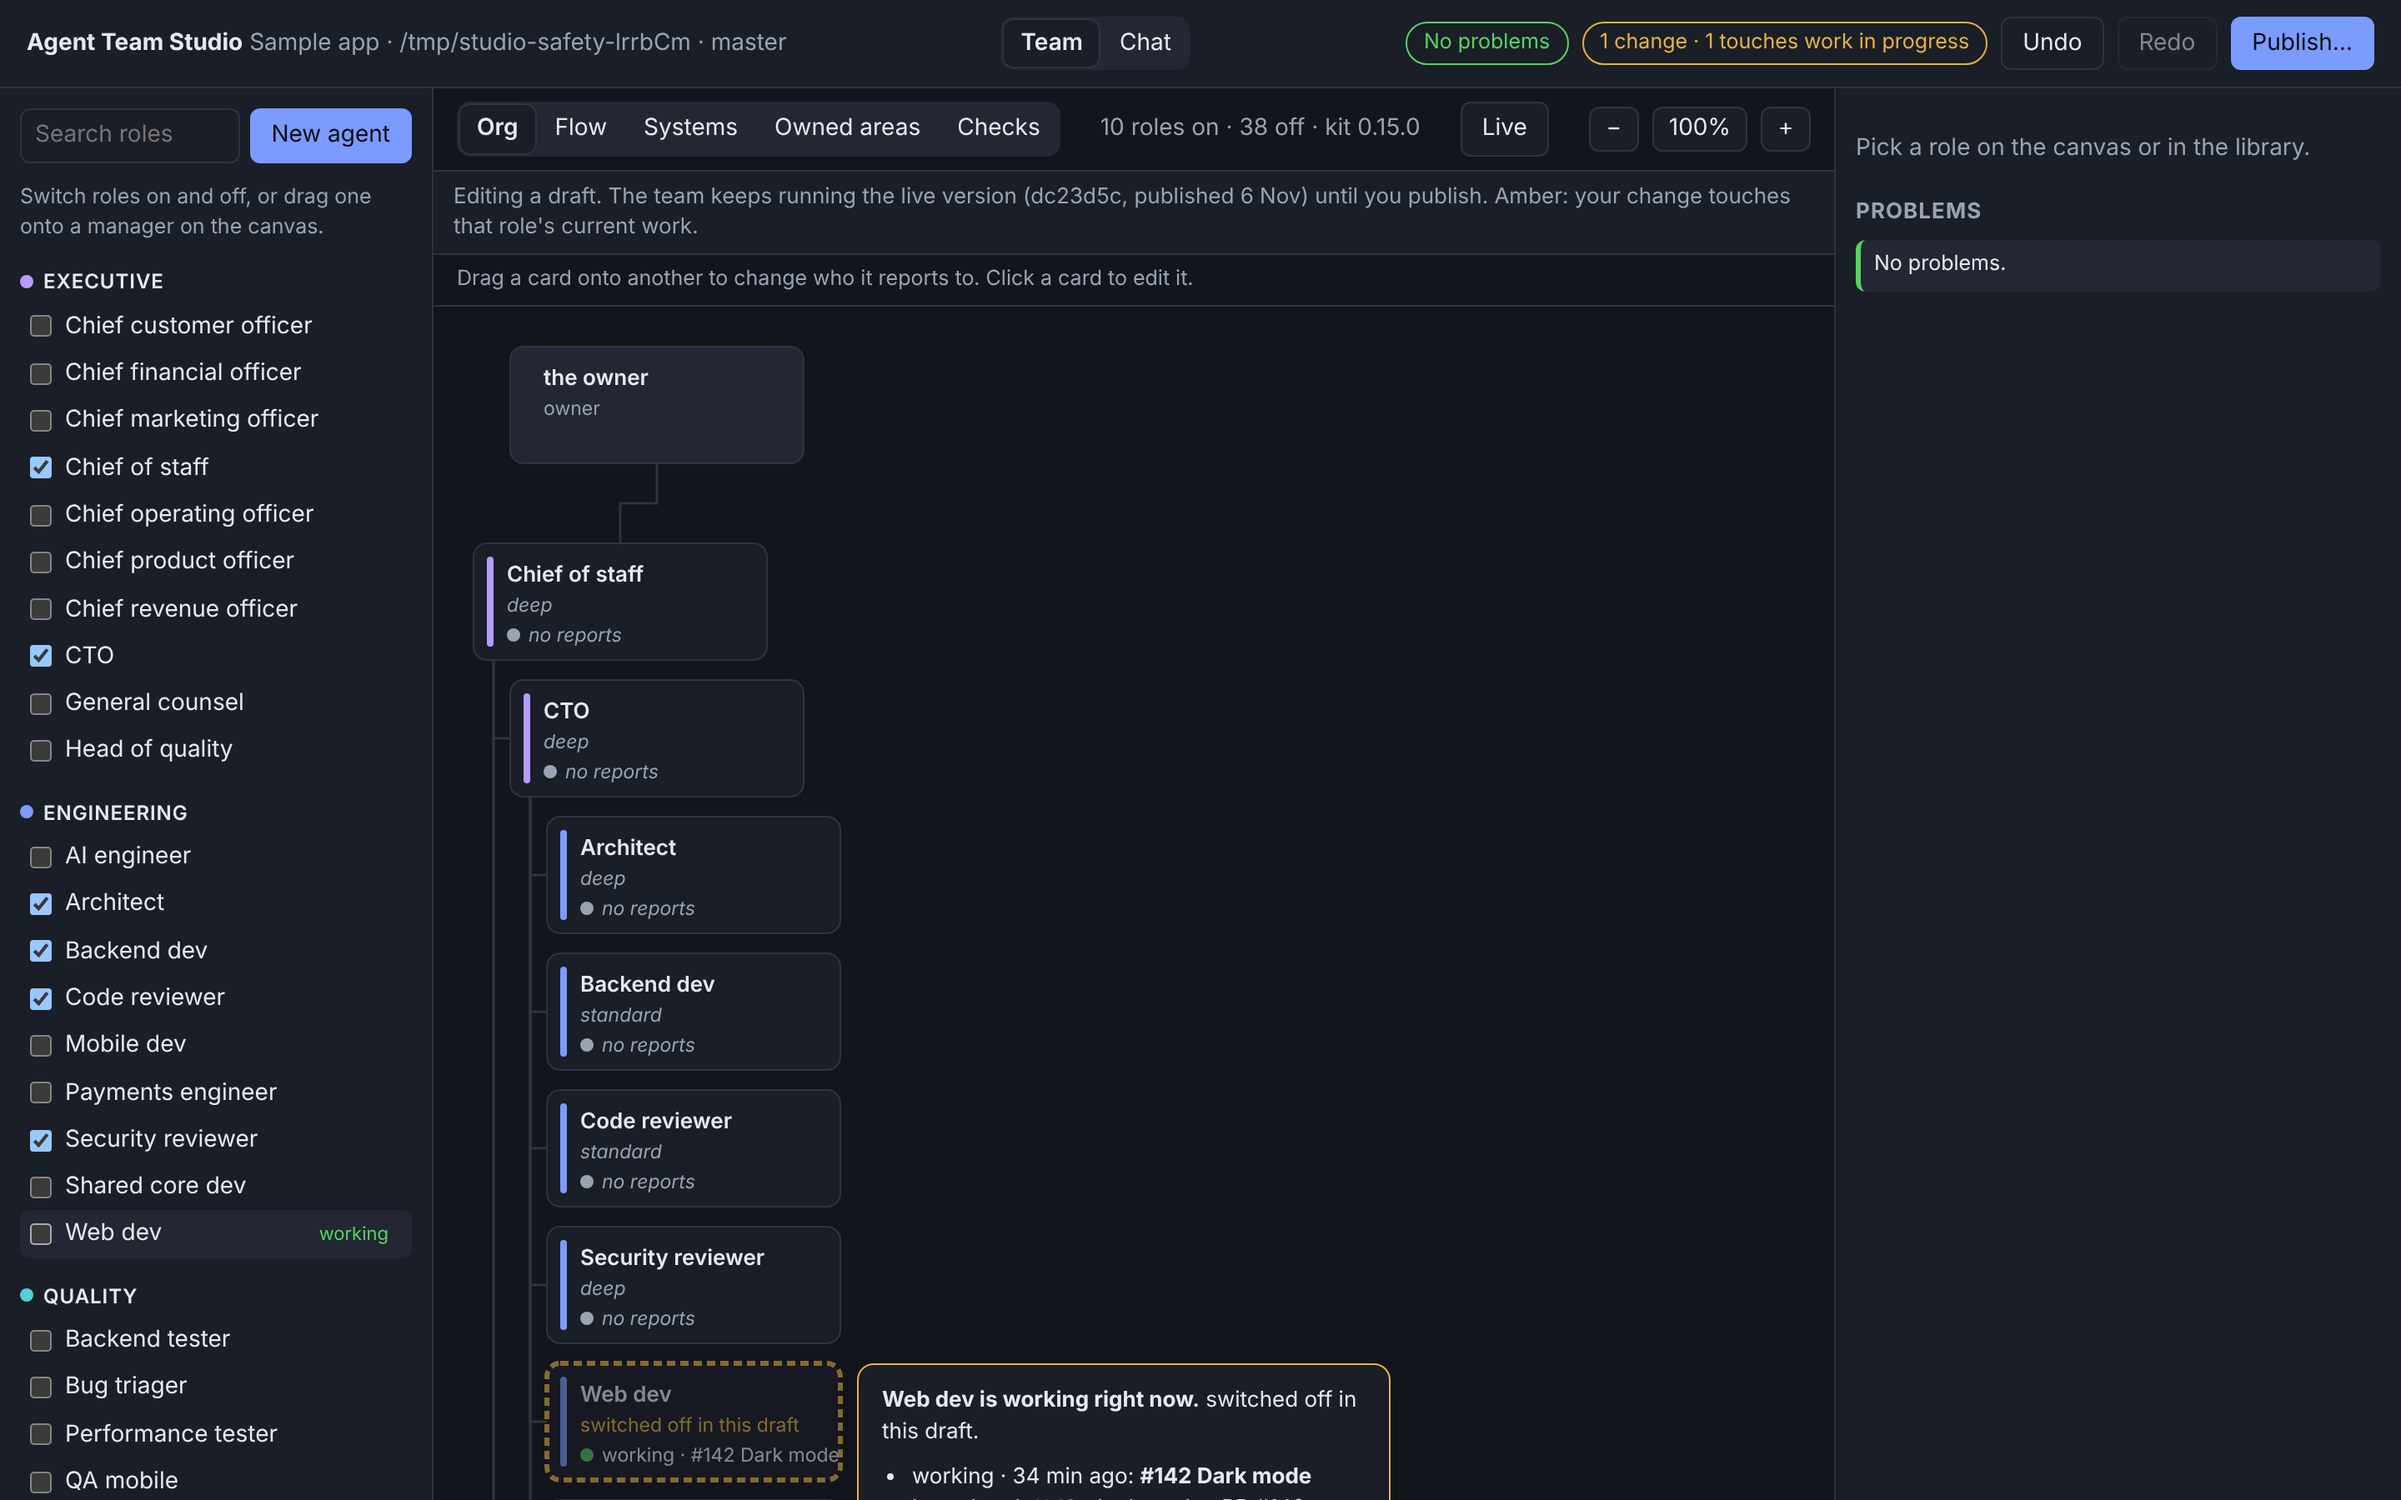
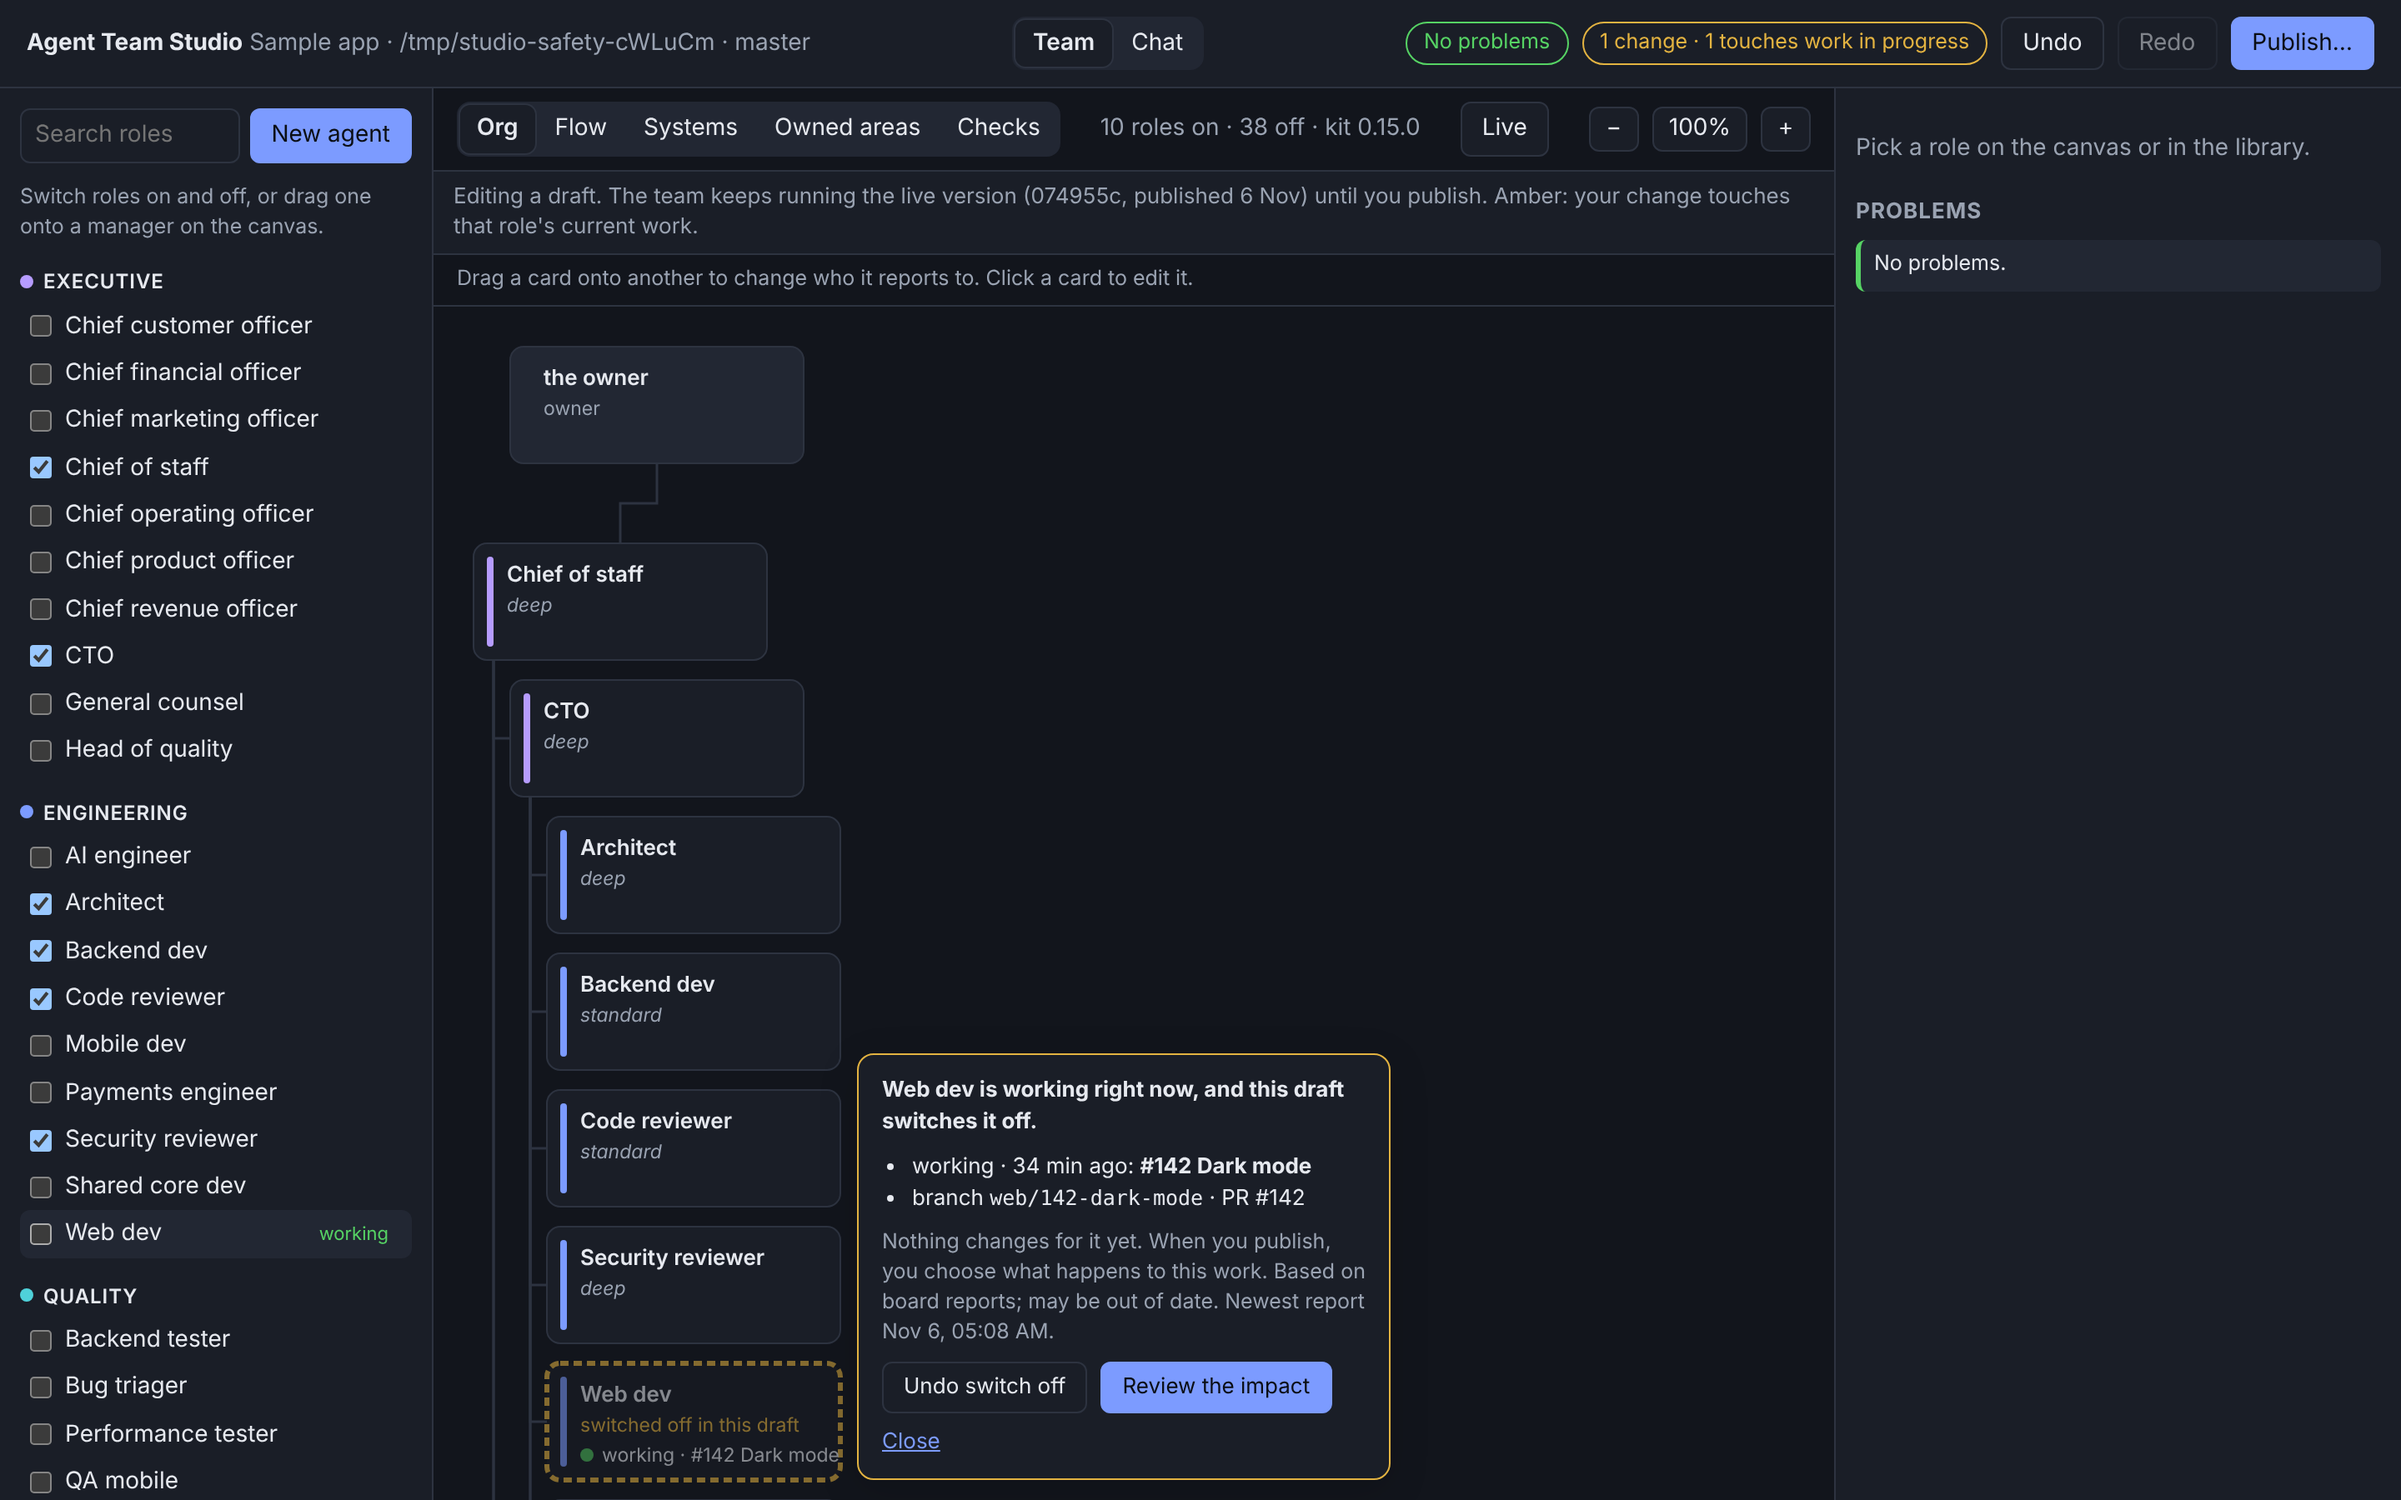
Change safety: full-sentence popover heading, no state line without reports, popover flips up (CPO review)
Claude-Session: https://claude.ai/code/session_01CtT1rLNW9YJYwkYiXvhcVj

diff --git a/apps/studio/public/app.js b/apps/studio/public/app.js
@@ -276,7 +276,7 @@ function nodeSvg(r, p, extra = '') {
   // The reason replaces the tier on an amber card: it is what the owner needs to read there (criterion 3).
   const tier = three ? (hot ? reasonOf(hot[0]) : [r.tier, r.dormant ? 'dormant' : replaces ? 'replaces kit' : ''].filter(Boolean).join(' · '))
     : l !== undefined ? liveLine(l) : mode === 'systems' ? systemsLine(r.slug) : r.tier ? `${r.tier}${r.dormant ? ' · dormant' : ''}${replaces ? ' · replaces kit' : ''}` : '';
-  const state = three ? (own ? [stateWord(own), taskOf(own)].filter(Boolean).join(' · ') : 'no reports') : '';
+  const state = three ? (own ? [stateWord(own), taskOf(own)].filter(Boolean).join(' · ') : '') : '';
   const flag = view.issues.some((i) => i.level === 'error' && i.where === `roles/${r.slug}`) ? ' ⚠' : r.changed ? ' •' : '';
   const tip = three && own ? `${r.title}: ${stateWord(own)}${taskOf(own) ? ` · ${taskOf(own)}` : ''}${own.branch ? ` · branch ${own.branch}` : ''}${own.pr ? ` · PR #${own.pr}` : ''}${hot ? ` · ${hot.map(reasonOf).join(', ')}` : ''}` : '';
   return `<g class="node${r.slug === selected ? ' selected' : ''}${r.dormant ? ' dormant' : ''}${extra}" data-slug="${r.slug}" transform="translate(${p.x},${p.y})" tabindex="0" role="button" aria-label="${esc(r.title)}${hot ? `, ${esc(hot.map(reasonOf).join(', '))}, work in progress` : ''}">
@@ -284,7 +284,7 @@ function nodeSvg(r, p, extra = '') {
     <rect class="stripe" width="4" height="${H - 16}" x="8" y="8" fill="${groupColor(r.group)}"></rect>
     <text class="title" x="20" y="23">${esc(r.title.length > 21 ? r.title.slice(0, 20) + '…' : r.title)}${flag}</text>
     <text class="meta" x="20" y="41">${esc(tier.length > 28 ? tier.slice(0, 27) + '…' : tier)}</text>
-    ${three ? `<circle class="dot" cx="24" cy="${H - 15}" r="4"></circle><text class="state" x="33" y="${H - 11}">${esc(state.length > 25 ? state.slice(0, 24) + '…' : state)}</text>${tip ? `<title>${esc(tip)}</title>` : ''}`
+    ${three ? `${state ? `<circle class="dot" cx="24" cy="${H - 15}" r="4"></circle><text class="state" x="33" y="${H - 11}">${esc(state.length > 25 ? state.slice(0, 24) + '…' : state)}</text>` : ''}${tip ? `<title>${esc(tip)}</title>` : ''}`
     : `${replaces && !l ? `<title>${esc(view.issues.find((i) => i.where === `roles/${r.slug}` && /replaces the kit/.test(i.message))?.message ?? 'Replaces the kit role of this name on this team')}</title>` : ''}
     ${l ? `<circle class="dot" cx="${W - 14}" cy="16" r="5"></circle>${l.threads > 1 ? `<text class="threads" x="${W - 24}" y="20" text-anchor="end">${l.threads}</text>` : ''}<title>${esc(`${r.title}: ${liveLine(l)}${l.pr ? ` · PR #${l.pr}` : ''}${l.issue ? ` · issue #${l.issue}` : ''}`)}</title>` : ''}`}
   </g>`;
@@ -623,7 +623,11 @@ function renderPopover() {
   const el = canvas.querySelector('.impact-pop');
   const c = card.getBoundingClientRect(), b = canvas.getBoundingClientRect();
   el.style.left = `${Math.min(c.right - b.left + canvas.scrollLeft + 10, canvas.scrollWidth - 340)}px`;
-  el.style.top = `${c.top - b.top + canvas.scrollTop}px`;
+  // Flip up when it would run past the bottom of the visible canvas, then bring it into view.
+  const top = c.top - b.top + canvas.scrollTop;
+  const up = c.bottom - b.top + canvas.scrollTop - el.offsetHeight;
+  const bottom = Math.min(b.bottom, window.innerHeight);
+  el.style.top = `${Math.max(0, c.top + el.offsetHeight > bottom && up >= 0 ? up : top)}px`;
 }
 
 function renderIssues() {

diff --git a/apps/studio/public/safety.js b/apps/studio/public/safety.js
@@ -38,6 +38,16 @@ export function reasonOf(item) {
   })[item.kind] ?? 'changed in this draft';
 }
 
+/** The same reason as the end of a sentence about the role, for the popover heading (CPO copy review of #97). */
+export function clauseOf(item) {
+  return ({
+    'role-off': 'this draft switches it off', 'role-removed': 'this draft removes it', 'role-dormant': 'this draft makes it dormant',
+    'path-moved': 'this draft moves an area it works in away from it', 'path-removed': 'this draft leaves an area it works in without a writer',
+    'brief': 'this draft changes its rules', 'tier': 'this draft changes its tier', 'reports-to': 'this draft changes who it reports to',
+    'binding-removed': 'this draft takes away a system it uses', 'binding-narrowed': 'this draft narrows its access to a system',
+  })[item.kind] ?? 'this draft changes it';
+}
+
 /** "Undo switch off" and the like, for the popover's first button. */
 export function undoLabel(item) {
   return ({
@@ -87,11 +97,17 @@ export function staleNote(newest) {
   return `Based on board reports; may be out of date. Newest report ${Number.isNaN(t.getTime()) ? newest : t.toLocaleString('en', { hour: '2-digit', minute: '2-digit', day: 'numeric', month: 'short' })}.`;
 }
 
+/** "a, b and c" from the items' clauses, each said once. */
+function clauses(items) {
+  const c = [...new Set(items.map(clauseOf))];
+  return c.length > 1 ? `${c.slice(0, -1).join(', ')} and ${c.at(-1)}` : c[0];
+}
+
 /** The popover by an amber card (criterion 4): what is in flight, and Undo / Review the impact. */
 export function popoverHtml({ slug, title, items, row, spec, roles, newest }) {
   const first = items[0];
   return `<div class="impact-pop" role="dialog" aria-label="${esc(title)} is working right now" data-slug="${esc(slug)}">
-    <p><strong>${esc(title)} ${row && (row.age_s ?? 0) <= QUIET_S ? 'is working right now' : 'has work in flight'}.</strong> ${esc(items.map((i) => reasonOf(i)).join(', '))}.</p>
+    <p><strong>${esc(title)} ${row && (row.age_s ?? 0) <= QUIET_S ? 'is working right now' : 'has work in flight'}, and ${esc(clauses(items))}.</strong></p>
     <ul>${inFlightList(row, spec, roles, slug).map((l) => `<li>${l}</li>`).join('')}</ul>
     <p class="hint">Nothing changes for it yet. When you publish, you choose what happens to this work. ${esc(staleNote(newest))}</p>
     <div class="row"><button type="button" data-pop="undo" data-item="${esc(first.id)}">${esc(undoLabel(first))}</button><button type="button" class="primary" data-pop="review">Review the impact</button><button type="button" class="link" data-pop="close">Close</button></div>
